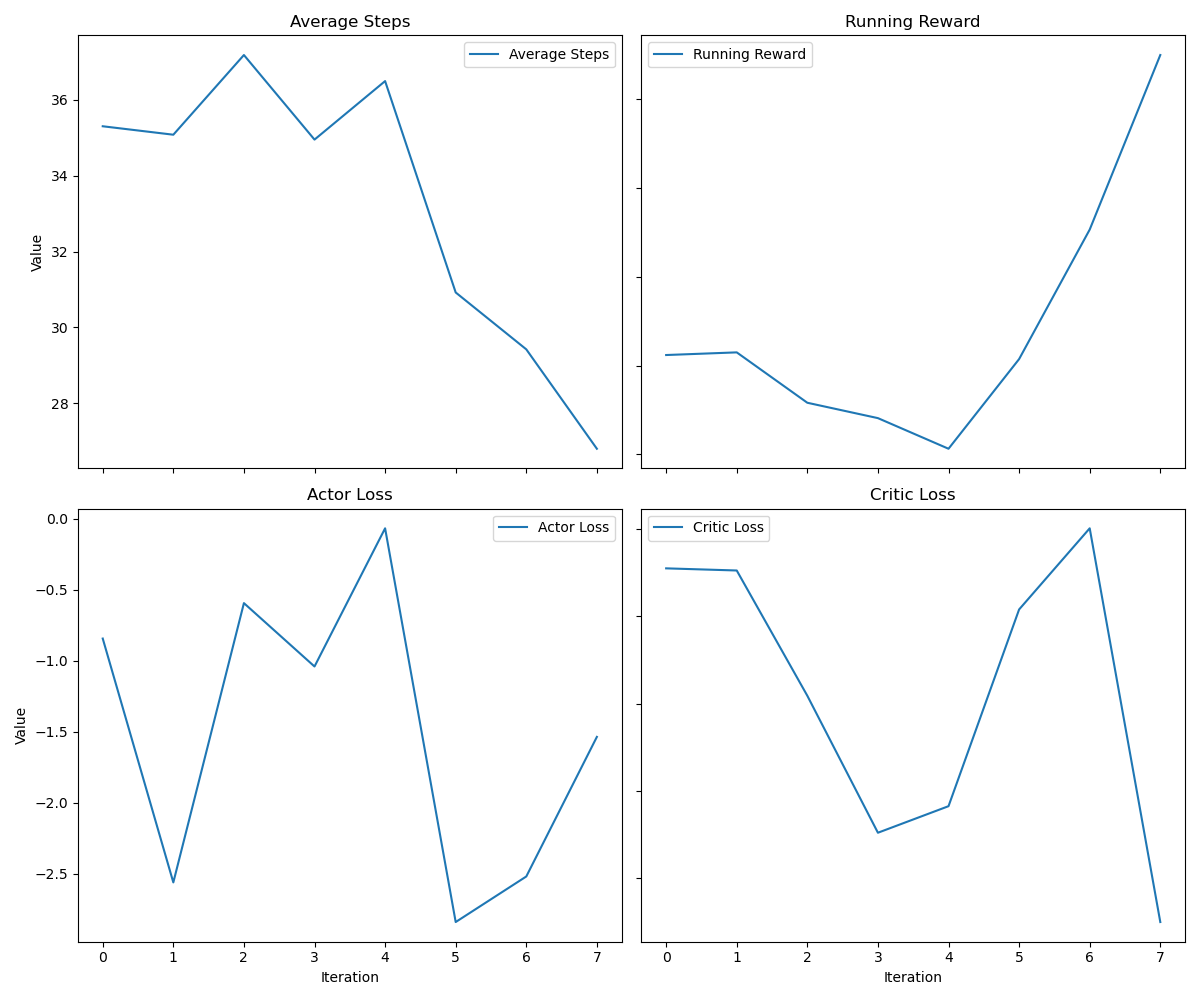
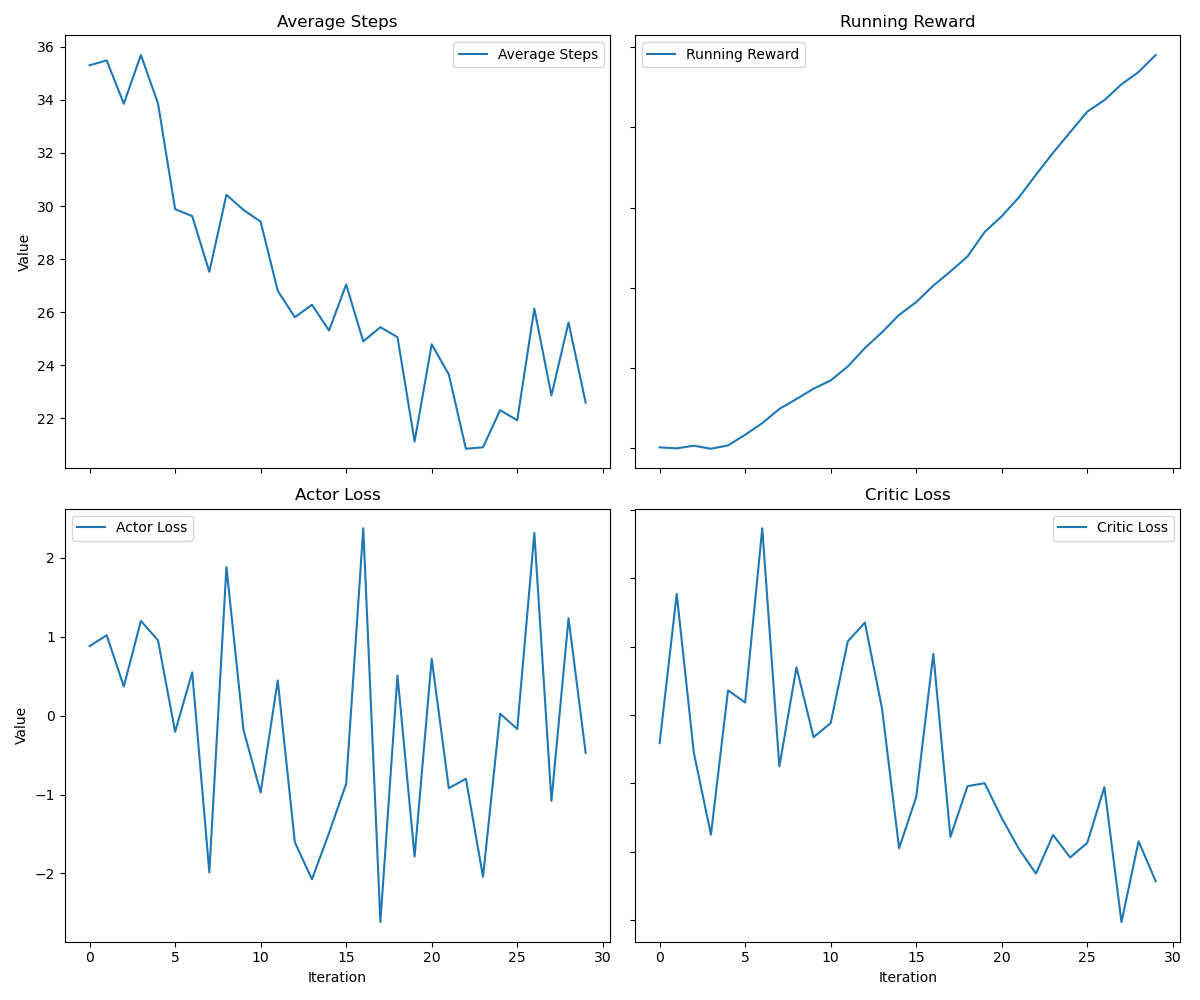
using learnable positional embedding

diff --git a/train.py b/train.py
@@ -1,5 +1,6 @@
 import torch
 import matplotlib.pyplot as plt
+from tensormanager import TensorManager
 
 
 class Train:
@@ -99,10 +100,8 @@ class Train:
 
                 # 업데이트된 숨겨진 상태를 사용하여 critic 및 actor 업데이트
                 value, _ = self.agent.get_value(
-                    state, hidden_state_critic, use_grad=True
+                    state, time_step.long(), hidden_state_critic, use_grad=True
                 )
-
-                value += -self.env.gamma * time_step.unsqueeze(1)
 
                 critic_loss = (return_ - value).pow(2).mean()
 
@@ -134,7 +133,6 @@ class Train:
             )
             hidden_states_actor = None
             hidden_states_critic = None
-            self.time_step = 0
 
             # 1 episode (data collection)
             for t in range(self.horizon):
@@ -148,11 +146,14 @@ class Train:
 
                 # Critic
                 value, hidden_states_critic = self.agent.get_value(
-                    states, hidden_states_critic, use_grad=False
+                    states,
+                    torch.tensor([t] * self.env_num).long().to(self.agent.device),
+                    hidden_states_critic,
+                    use_grad=False,
                 )
 
                 # apply action to the environment
-                next_states, rewards, dones, _ = self.env.step(scaled_actions)
+                next_states, rewards, dones = self.env.step(scaled_actions)
 
                 tensor_manager.update_tensors(
                     states,
@@ -170,34 +171,35 @@ class Train:
                     if dones[i] and done_times[i] == -1:
                         done_times[i] = t + 1
 
-                self.time_step += 1
-
             # 데이터 수집 단계 종료
             tensor_manager.filter_with_done_times(done_times)
 
             for i in range(self.env_num):
-                # 환경이 끝나지 않았다면, 마지막 상태의 value를 계산
+                # if the epsisode is not done
                 if done_times[i] == -1:
-                    tensor_manager.values_tensor[i, done_times[i]] = 0
-                # 환경이 끝났다면, 마지막 상태의 value를 0으로 설정
-                else:
-                    h_c = tensor_manager.hidden_states_critic_tensor[
-                        i, -1, 0, :
-                    ].unsqueeze(0)
-                    c_c = tensor_manager.hidden_states_critic_tensor[
-                        i, -1, 1, :
-                    ].unsqueeze(0)
+                    h_c = (
+                        tensor_manager.hidden_states_critic_tensor[i, -1, 0, :]
+                        .unsqueeze(0)
+                        .unsqueeze(0)
+                    )
+                    c_c = (
+                        tensor_manager.hidden_states_critic_tensor[i, -1, 1, :]
+                        .unsqueeze(0)
+                        .unsqueeze(0)
+                    )
                     next_value, _ = self.agent.get_value(
-                        next_states[i].unsqueeze(0),
+                        tensor_manager.states_tensor[i, -1].unsqueeze(0),
+                        torch.tensor([self.horizon - 1]).long().to(self.agent.device),
                         (h_c, c_c),
                         use_grad=False,
                     )
-                    tensor_manager.values_tensor[i, -1] = next_value.squeeze()
+                    tensor_manager.values_tensor[i, done_times[i]] = next_value
+
+                else:
+                    tensor_manager.values_tensor[i, done_times[i]] = 0
 
             advs = self.get_gae(
-                tensor_manager.rewards_tensor,
-                tensor_manager.values_tensor,
-                tensor_manager.dones_tensor,
+                tensor_manager,
                 done_times,
             )
             tensor_manager.advantages_tensor = advs
@@ -217,18 +219,10 @@ class Train:
 
     # lambda가 작으면 TD(λ)의 편향이 커지고, 크면 MC에 가까워짐
     # GAE의 장점은 λ를 통해 편향-분산 트레이드오프를 조절할 수 있다는 것
-    def get_gae(self, rewards, values, dones, done_times, gamma=1, lam=0.95):
-        assert (
-            rewards.ndim == 2 and values.ndim == 2 and dones.ndim == 2
-        ), "Inputs must be 2D arrays."
-        assert (
-            values.shape[0] == rewards.shape[0]
-            and values.shape[1] == rewards.shape[1] + 1
-        ), "Values should have one more time step than rewards and dones."
-        assert (
-            len(done_times) == rewards.shape[0]
-        ), "Length of done_times must match the number of environments."
-
+    def get_gae(self, tensor_manager, done_times, gamma=1, lam=0.95):
+        rewards = tensor_manager.rewards_tensor
+        values = tensor_manager.values_tensor
+        dones = tensor_manager.dones_tensor
         num_envs, horizon = rewards.shape
         advs = torch.zeros_like(rewards).to(rewards.device)
 
@@ -309,152 +303,7 @@ class Train:
             if ax.has_data():
                 ax.legend()
 
-        fig.subplots_adjust(hspace=0.3, wspace=0.3)  # 서브플롯 간격 조절
+        fig.subplots_adjust(hspace=1, wspace=1)  # 서브플롯 간격 조절
         plt.tight_layout()
         plt.savefig(f"results/results_graphs.png")
         plt.close()
-
-
-class TensorManager:
-    def __init__(self, env_num, horizon, states_shape, action_dim, hidden_dim, device):
-        self.env_num = env_num
-        self.horizon = horizon
-        self.states_shape = states_shape
-        self.action_dim = action_dim
-        self.hidden_dim = hidden_dim
-        self.device = device
-
-        self.states_tensor = self.init_tensor(
-            [self.env_num, self.horizon, *self.states_shape], False
-        )
-        self.actions_tensor = self.init_tensor(
-            [self.env_num, self.horizon, self.action_dim], False
-        )
-        self.rewards_tensor = self.init_tensor([self.env_num, self.horizon], False)
-        self.values_tensor = self.init_tensor([self.env_num, self.horizon + 1], False)
-        self.log_probs_tensor = self.init_tensor([self.env_num, self.horizon], False)
-        self.dones_tensor = self.init_tensor([self.env_num, self.horizon + 1], False)
-        self.hidden_states_actor_tensor = self.init_tensor(
-            [self.env_num, self.horizon, 2, 64], False
-        )
-        self.hidden_states_critic_tensor = self.init_tensor(
-            [self.env_num, self.horizon, 2, 64], False
-        )
-        self.advantages_tensor = self.init_tensor([self.env_num, self.horizon], False)
-        self.time_step_tensor = torch.arange(
-            0, self.horizon, device=self.device
-        ).repeat(self.env_num, 1)
-
-    def init_tensor(self, shape, requires_grad):
-        return torch.zeros(shape, requires_grad=requires_grad).to(self.device)
-
-    def reset_done_flags(self, done_times):
-        for i, done_time in enumerate(done_times):
-            if done_time != -1:
-                self.dones_tensor[i, done_time:] = 1
-
-    def update_tensors(
-        self,
-        states,
-        actions,
-        rewards,
-        values,
-        log_probs,
-        dones,
-        hidden_states_actor,
-        hidden_states_critic,
-        t,
-    ):
-        self.states_tensor[:, t] = states
-        self.actions_tensor[:, t] = actions
-        self.rewards_tensor[:, t] = rewards
-        self.values_tensor[:, t] = values.squeeze()
-        self.log_probs_tensor[:, t] = log_probs
-        self.dones_tensor[:, t] = dones
-        self.hidden_states_actor_tensor[:, t, 0, :] = hidden_states_actor[0].squeeze()
-        self.hidden_states_actor_tensor[:, t, 1, :] = hidden_states_actor[1].squeeze()
-        self.hidden_states_critic_tensor[:, t, 0, :] = hidden_states_critic[0].squeeze()
-        self.hidden_states_critic_tensor[:, t, 1, :] = hidden_states_critic[1].squeeze()
-
-    def reset_done_flags(self, done_times):
-        for i, done_time in enumerate(done_times):
-            if done_time != -1:
-                self.dones_tensor[i, done_time:] = 1
-
-    def filter_post_done_data(self, tensor, done_times):
-        for i, done_time in enumerate(done_times):
-            if done_time != -1:
-                tensor[i, done_time:] = 0
-        return tensor
-
-    def filter_with_done_times(self, done_times):
-        # done_times를 참고하여 dones_times 이후의 데이터를 필터링
-        for i in range(self.env_num):
-            if done_times[i] != -1:
-                # 마지막 step 이후의 데이터를 0으로 설정
-                self.actions_tensor[i, done_times[i] :] = 0
-                self.rewards_tensor[i, done_times[i] :] = 0
-                self.values_tensor[i, done_times[i] + 1 :] = 0
-                self.log_probs_tensor[i, done_times[i] :] = 0
-                self.dones_tensor[i, done_times[i] :] = 1
-                self.hidden_states_actor_tensor[i, done_times[i] + 1 :, :, :] = 0
-                self.hidden_states_critic_tensor[i, done_times[i] + 1 :, :, :] = 0
-
-    def filter_post_done_data(self, done_times):
-        # 각 환경의 done_time을 기반으로 필터링된 텐서의 총 길이 계산
-        remaining_steps = sum(self.horizon if t == -1 else t for t in done_times)
-
-        # 모든 관련 텐서에 대한 필터링 수행
-        self.states_tensor = self._filter_tensor(
-            self.states_tensor, done_times, remaining_steps
-        )
-        self.actions_tensor = self._filter_tensor(
-            self.actions_tensor, done_times, remaining_steps
-        )
-        self.rewards_tensor = self._filter_tensor(
-            self.rewards_tensor, done_times, remaining_steps, is_flat=True
-        )
-        self.values_tensor = self._filter_tensor(
-            self.values_tensor, done_times, remaining_steps, is_flat=True
-        )
-        self.log_probs_tensor = self._filter_tensor(
-            self.log_probs_tensor, done_times, remaining_steps, is_flat=True
-        )
-        self.dones_tensor = self._filter_tensor(
-            self.dones_tensor, done_times, remaining_steps, is_flat=True
-        )
-        self.hidden_states_actor_tensor = self._filter_tensor(
-            self.hidden_states_actor_tensor, done_times, remaining_steps
-        )
-        self.hidden_states_critic_tensor = self._filter_tensor(
-            self.hidden_states_critic_tensor, done_times, remaining_steps
-        )
-        self.advantages_tensor = self._filter_tensor(
-            self.advantages_tensor, done_times, remaining_steps, is_flat=True
-        )
-        self.time_step_tensor = self._filter_tensor(
-            self.time_step_tensor, done_times, remaining_steps, is_flat=True
-        )
-
-    def _filter_tensor(self, tensor, done_times, remaining_steps, is_flat=False):
-        # 필터링된 텐서의 초기화
-        if is_flat:
-            filtered_tensor = torch.zeros([remaining_steps], device=self.device)
-        else:
-            filtered_tensor = torch.zeros(
-                [remaining_steps, *tensor.shape[2:]], device=self.device
-            )
-
-        start_idx = 0
-        for i, done_time in enumerate(done_times):
-            length = self.horizon if done_time == -1 else done_time
-            end_idx = start_idx + length
-            if is_flat:
-                filtered_tensor[start_idx:end_idx] = tensor[i, :length].clone()
-            else:
-                filtered_tensor[start_idx:end_idx, ...] = tensor[
-                    i, :length, ...
-                ].clone()
-            start_idx = end_idx
-
-        return filtered_tensor

diff --git a/model.py b/model.py
@@ -1,6 +1,7 @@
-from torch import nn
-from torch.distributions import normal
 import torch
+from torch import nn
+import torch.nn.functional as F
+from torch.distributions import normal
 
 
 class Actor(nn.Module):
@@ -61,12 +62,18 @@ class Actor(nn.Module):
 
 
 class Critic(nn.Module):
-    def __init__(self, n_states, hidden_size=64):
+    def __init__(self, n_states, hidden_size=64, seq_len=64):
         super(Critic, self).__init__()
         self.device = torch.device("cuda:0" if torch.cuda.is_available() else "cpu")
         self.n_states = n_states
+        self.seq_len = seq_len
 
-        self.fc1 = nn.Linear(in_features=self.n_states, out_features=hidden_size)
+        # 학습 가능한 위치 임베딩 레이어 추가
+        self.position_embedding = nn.Embedding(seq_len, hidden_size)
+
+        self.fc1 = nn.Linear(
+            in_features=self.n_states + hidden_size, out_features=hidden_size
+        )  # 입력 차원 수정
         self.fc2 = nn.Linear(in_features=hidden_size, out_features=hidden_size)
         self.lstm = nn.LSTM(
             input_size=hidden_size, hidden_size=hidden_size, num_layers=1
@@ -79,21 +86,26 @@ class Critic(nn.Module):
                 nn.init.orthogonal_(layer.weight)
                 layer.bias.data.zero_()
 
-    def forward(self, x, hidden_states):
+    def forward(self, x, position_idx, hidden_states):
         batch_size = x.size(0)
-        # hidden_states 처리
 
         hidden_states = self.initialize_hidden_states(
             hidden_states, batch_size, self.device
         )
-        x = x.squeeze()
-        x = torch.relu(self.fc1(x))
-        x = torch.relu(self.fc2(x))
+
+        # 위치 임베딩 조회 및 입력과 결합
+        position_embedding = self.position_embedding(
+            position_idx
+        )  # position_idx는 [batch_size] 차원을 가짐
+        x = torch.cat([x, position_embedding], dim=-1)  # 입력과 위치 임베딩을 결합
+
+        x = F.relu(self.fc1(x))
+        x = F.relu(self.fc2(x))
         x = x.unsqueeze(0)
 
         output, hidden_states = self.lstm(x, hidden_states)
 
-        value = torch.relu(self.value_1(output.squeeze(0)))
+        value = F.relu(self.value_1(output.squeeze(0)))
         if value.dim() == 1:
             value = value.unsqueeze(0)
         value = self.value_2(value)
@@ -108,6 +120,5 @@ class Critic(nn.Module):
             c_0 = torch.zeros(
                 self.lstm.num_layers, batch_size, self.lstm.hidden_size
             ).to(device)
-
             hidden_states = (h_0, c_0)
         return hidden_states

diff --git a/agent.py b/agent.py
@@ -113,6 +113,7 @@ class EncodedAgent(Agent):
     def get_value(
         self,
         state,
+        t,
         hidden_state=None,
         use_grad=True,
     ):
@@ -121,10 +122,10 @@ class EncodedAgent(Agent):
         if encoded_state.dim() == 1:
             encoded_state = encoded_state.unsqueeze(0)
         if use_grad:
-            value, hidden_state = self.critic(encoded_state, hidden_state)
+            value, hidden_state = self.critic(encoded_state, t, hidden_state)
         else:
             with torch.no_grad():
-                value, hidden_state = self.critic(encoded_state, hidden_state)
+                value, hidden_state = self.critic(encoded_state, t, hidden_state)
         return value, hidden_state
 
     def choose_actions(self, dist):

diff --git a/environment.py b/environment.py
@@ -65,7 +65,7 @@ class Env:
         self.previous_prediction = new_prediction
 
         self.actions_taken += 1
-        return modified_image, reward, done, {}
+        return modified_image, reward, done
 
     def apply_actions(self, images, actions):
         # action 텐서를 CPU로 이동시키고 NumPy 배열로 변환

diff --git a/main.py b/main.py
@@ -21,7 +21,7 @@ env_batch = 256
 
 # Reward weights
 alpha = 1.0
-beta = 30.0
+beta = 20.0
 gamma = 0.05
 
 if __name__ == "__main__":
